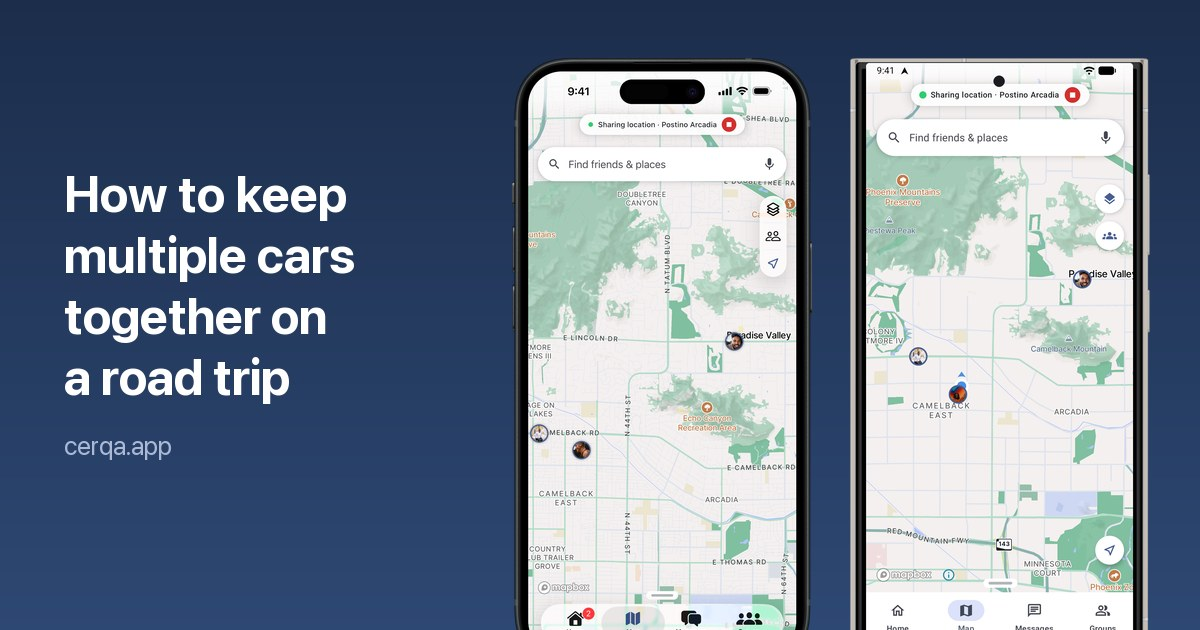
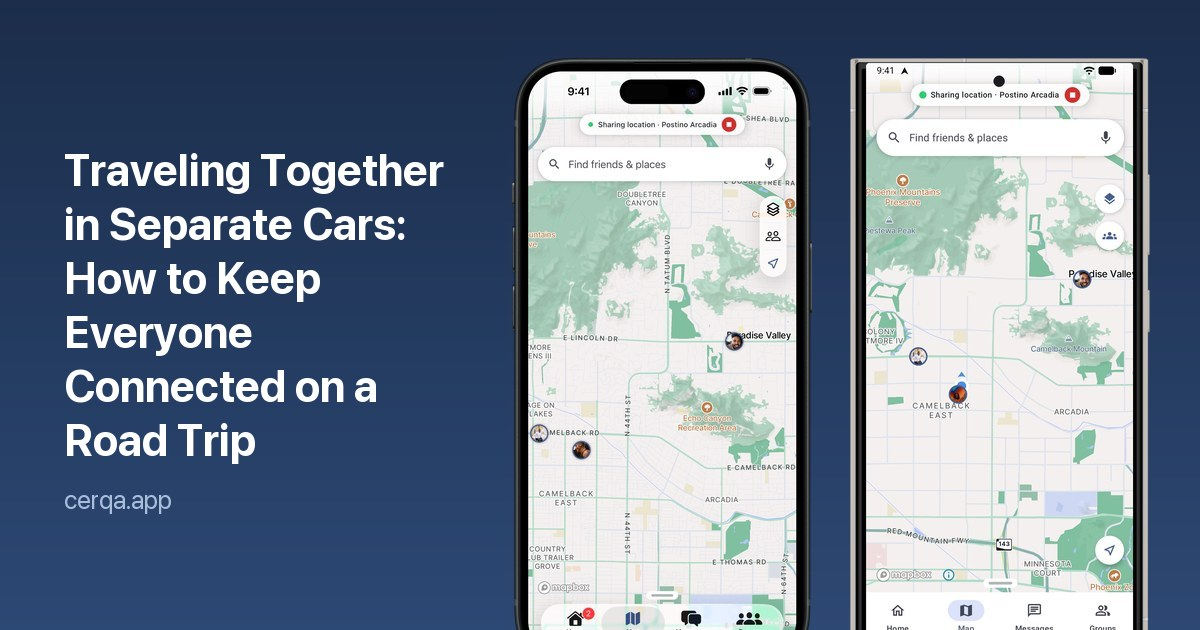
Blog: retitle road trip post "Traveling Together in Separate Cars" (EN/ES), new hero title; URL unchanged

Changed region(s): [[0.0308, 0.2413, 0.37, 0.7238], [0.0617, 0.7841, 0.1542, 0.8143]]

diff --git a/es/blog/como-mantener-varios-carros-juntos-en-un-viaje-por-carretera/index.html b/es/blog/como-mantener-varios-carros-juntos-en-un-viaje-por-carretera/index.html
@@ -3,7 +3,7 @@
 <head>
   <meta charset="UTF-8">
   <meta name="viewport" content="width=device-width, initial-scale=1.0">
-  <title>Cómo mantener varios carros juntos en un viaje por carretera | Cerqa</title>
+  <title>Viajar juntos en carros separados: cómo mantener a todos conectados en un viaje por carretera | Cerqa</title>
   <meta name="description" content="¿Viajan en dos o tres carros? Así se mantienen juntos sin mandar mensajes mientras manejan: compartan su ubicación en vivo, vean a qué hora llega cada carro, planeen sus paradas y vuelvan a encontrarse si se separan.">
   <link rel="canonical" href="https://cerqa.app/es/blog/como-mantener-varios-carros-juntos-en-un-viaje-por-carretera/">
   <link rel="alternate" hreflang="en" href="https://cerqa.app/blog/keep-multiple-cars-together-on-a-road-trip/">
@@ -16,17 +16,17 @@
   <meta property="og:type" content="article">
   <meta property="og:site_name" content="Cerqa">
   <meta property="og:url" content="https://cerqa.app/es/blog/como-mantener-varios-carros-juntos-en-un-viaje-por-carretera/">
-  <meta property="og:title" content="Cómo mantener varios carros juntos en un viaje por carretera | Cerqa">
+  <meta property="og:title" content="Viajar juntos en carros separados: cómo mantener a todos conectados en un viaje por carretera | Cerqa">
   <meta property="og:description" content="¿Viajan en dos o tres carros? Así se mantienen juntos sin mandar mensajes mientras manejan: compartan su ubicación en vivo, vean a qué hora llega cada carro, planeen sus paradas y vuelvan a encontrarse si se separan.">
   <meta property="og:image" content="https://cerqa.app/images/blog/keep-multiple-cars-together.jpg">
   <meta property="og:locale" content="es_MX">
   <meta property="og:locale:alternate" content="en_US">
   <meta name="twitter:card" content="summary_large_image">
   <script type="application/ld+json">
-  {"@context": "https://schema.org", "@type": "BlogPosting", "headline": "Cómo mantener varios carros juntos en un viaje por carretera", "description": "¿Viajan en dos o tres carros? Así se mantienen juntos sin mandar mensajes mientras manejan: compartan su ubicación en vivo, vean a qué hora llega cada carro, planeen sus paradas y vuelvan a encontrarse si se separan.", "image": "https://cerqa.app/images/blog/keep-multiple-cars-together.jpg", "datePublished": "2026-11-09", "dateModified": "2026-11-09", "inLanguage": "es", "mainEntityOfPage": "https://cerqa.app/es/blog/como-mantener-varios-carros-juntos-en-un-viaje-por-carretera/", "author": {"@type": "Organization", "name": "Cerqa", "url": "https://cerqa.app/"}, "publisher": {"@type": "Organization", "name": "Cerqa", "url": "https://cerqa.app/", "logo": {"@type": "ImageObject", "url": "https://cerqa.app/images/icon/apple-touch-icon.png"}}}
+  {"@context": "https://schema.org", "@type": "BlogPosting", "headline": "Viajar juntos en carros separados: cómo mantener a todos conectados en un viaje por carretera", "description": "¿Viajan en dos o tres carros? Así se mantienen juntos sin mandar mensajes mientras manejan: compartan su ubicación en vivo, vean a qué hora llega cada carro, planeen sus paradas y vuelvan a encontrarse si se separan.", "image": "https://cerqa.app/images/blog/keep-multiple-cars-together.jpg", "datePublished": "2026-11-09", "dateModified": "2026-11-09", "inLanguage": "es", "mainEntityOfPage": "https://cerqa.app/es/blog/como-mantener-varios-carros-juntos-en-un-viaje-por-carretera/", "author": {"@type": "Organization", "name": "Cerqa", "url": "https://cerqa.app/"}, "publisher": {"@type": "Organization", "name": "Cerqa", "url": "https://cerqa.app/", "logo": {"@type": "ImageObject", "url": "https://cerqa.app/images/icon/apple-touch-icon.png"}}}
   </script>
   <script type="application/ld+json">
-  {"@context": "https://schema.org", "@type": "BreadcrumbList", "itemListElement": [{"@type": "ListItem", "position": 1, "name": "Inicio", "item": "https://cerqa.app/es/"}, {"@type": "ListItem", "position": 2, "name": "Blog", "item": "https://cerqa.app/es/blog/"}, {"@type": "ListItem", "position": 3, "name": "Cómo mantener varios carros juntos en un viaje por carretera", "item": "https://cerqa.app/es/blog/como-mantener-varios-carros-juntos-en-un-viaje-por-carretera/"}]}
+  {"@context": "https://schema.org", "@type": "BreadcrumbList", "itemListElement": [{"@type": "ListItem", "position": 1, "name": "Inicio", "item": "https://cerqa.app/es/"}, {"@type": "ListItem", "position": 2, "name": "Blog", "item": "https://cerqa.app/es/blog/"}, {"@type": "ListItem", "position": 3, "name": "Viajar juntos en carros separados: cómo mantener a todos conectados en un viaje por carretera", "item": "https://cerqa.app/es/blog/como-mantener-varios-carros-juntos-en-un-viaje-por-carretera/"}]}
   </script>
   <script type="application/ld+json">
   {"@context": "https://schema.org", "@type": "FAQPage", "mainEntity": [{"@type": "Question", "name": "¿Cuál es la mejor forma de mantener varios carros juntos en un viaje por carretera?", "acceptedAnswer": {"@type": "Answer", "text": "Pónganse de acuerdo en el destino y las paradas antes de salir, que un copiloto en cada carro use el teléfono, y compartan su ubicación en vivo con todo el grupo para que cada carro vea a los demás y su hora de llegada."}}, {"@type": "Question", "name": "¿Amigos con iPhone y Android pueden verse?", "acceptedAnswer": {"@type": "Answer", "text": "Sí. Cerqa funciona en iPhone y en Android, así que todos aparecen en el mismo mapa."}}, {"@type": "Question", "name": "¿Es gratis?", "acceptedAnswer": {"@type": "Answer", "text": "Sí. Los grupos de hasta 5 personas pueden compartir gratis hasta una hora a la vez. Pro agrega compartir hasta 24 horas, grupos de hasta 25 personas y navegación en grupo."}}, {"@type": "Question", "name": "¿Qué hacemos si nos separamos?", "acceptedAnswer": {"@type": "Answer", "text": "No intenten alcanzarse en el tráfico. Vean dónde va el otro carro, sigan manejando con cuidado y reagrúpense en la siguiente parada que acordaron."}}]}
@@ -91,7 +91,7 @@
 
   <article class="post">
     <p class="crumbs"><a href="/es/">Inicio</a> › <a href="/es/blog/">Blog</a></p>
-    <h1>Cómo mantener varios carros juntos en un viaje por carretera</h1>
+    <h1>Viajar juntos en carros separados: cómo mantener a todos conectados en un viaje por carretera</h1>
     <p class="post-meta"><time datetime="2026-11-09">9 de noviembre de 2026</time> · 3 min de lectura · <a href="/blog/keep-multiple-cars-together-on-a-road-trip/" hreflang="en" lang="en" aria-label="Read in English" title="Read in English">EN</a></p>
     <img class="post-hero" src="/images/blog/keep-multiple-cars-together.jpg" width="1200" height="630" alt="Cerqa en iPhone y Android: amigos en distintos carros en un solo mapa, compartiendo su ubicación camino al mismo lugar">
     <div class="post-body">

diff --git a/blog/keep-multiple-cars-together-on-a-road-trip/index.html b/blog/keep-multiple-cars-together-on-a-road-trip/index.html
@@ -3,7 +3,7 @@
 <head>
   <meta charset="UTF-8">
   <meta name="viewport" content="width=device-width, initial-scale=1.0">
-  <title>How to keep multiple cars together on a road trip | Cerqa</title>
+  <title>Traveling Together in Separate Cars: How to Keep Everyone Connected on a Road Trip | Cerqa</title>
   <meta name="description" content="Traveling in two or three cars? Here is how to stay together without texting while you drive: share live locations, see everyone&#x27;s arrival time, plan your stops and find each other again after a split.">
   <link rel="canonical" href="https://cerqa.app/blog/keep-multiple-cars-together-on-a-road-trip/">
   <link rel="alternate" hreflang="en" href="https://cerqa.app/blog/keep-multiple-cars-together-on-a-road-trip/">
@@ -16,17 +16,17 @@
   <meta property="og:type" content="article">
   <meta property="og:site_name" content="Cerqa">
   <meta property="og:url" content="https://cerqa.app/blog/keep-multiple-cars-together-on-a-road-trip/">
-  <meta property="og:title" content="How to keep multiple cars together on a road trip | Cerqa">
+  <meta property="og:title" content="Traveling Together in Separate Cars: How to Keep Everyone Connected on a Road Trip | Cerqa">
   <meta property="og:description" content="Traveling in two or three cars? Here is how to stay together without texting while you drive: share live locations, see everyone&#x27;s arrival time, plan your stops and find each other again after a split.">
   <meta property="og:image" content="https://cerqa.app/images/blog/keep-multiple-cars-together.jpg">
   <meta property="og:locale" content="en_US">
   <meta property="og:locale:alternate" content="es_MX">
   <meta name="twitter:card" content="summary_large_image">
   <script type="application/ld+json">
-  {"@context": "https://schema.org", "@type": "BlogPosting", "headline": "How to keep multiple cars together on a road trip", "description": "Traveling in two or three cars? Here is how to stay together without texting while you drive: share live locations, see everyone's arrival time, plan your stops and find each other again after a split.", "image": "https://cerqa.app/images/blog/keep-multiple-cars-together.jpg", "datePublished": "2026-11-09", "dateModified": "2026-11-09", "inLanguage": "en", "mainEntityOfPage": "https://cerqa.app/blog/keep-multiple-cars-together-on-a-road-trip/", "author": {"@type": "Organization", "name": "Cerqa", "url": "https://cerqa.app/"}, "publisher": {"@type": "Organization", "name": "Cerqa", "url": "https://cerqa.app/", "logo": {"@type": "ImageObject", "url": "https://cerqa.app/images/icon/apple-touch-icon.png"}}}
+  {"@context": "https://schema.org", "@type": "BlogPosting", "headline": "Traveling Together in Separate Cars: How to Keep Everyone Connected on a Road Trip", "description": "Traveling in two or three cars? Here is how to stay together without texting while you drive: share live locations, see everyone's arrival time, plan your stops and find each other again after a split.", "image": "https://cerqa.app/images/blog/keep-multiple-cars-together.jpg", "datePublished": "2026-11-09", "dateModified": "2026-11-09", "inLanguage": "en", "mainEntityOfPage": "https://cerqa.app/blog/keep-multiple-cars-together-on-a-road-trip/", "author": {"@type": "Organization", "name": "Cerqa", "url": "https://cerqa.app/"}, "publisher": {"@type": "Organization", "name": "Cerqa", "url": "https://cerqa.app/", "logo": {"@type": "ImageObject", "url": "https://cerqa.app/images/icon/apple-touch-icon.png"}}}
   </script>
   <script type="application/ld+json">
-  {"@context": "https://schema.org", "@type": "BreadcrumbList", "itemListElement": [{"@type": "ListItem", "position": 1, "name": "Home", "item": "https://cerqa.app/"}, {"@type": "ListItem", "position": 2, "name": "Blog", "item": "https://cerqa.app/blog/"}, {"@type": "ListItem", "position": 3, "name": "How to keep multiple cars together on a road trip", "item": "https://cerqa.app/blog/keep-multiple-cars-together-on-a-road-trip/"}]}
+  {"@context": "https://schema.org", "@type": "BreadcrumbList", "itemListElement": [{"@type": "ListItem", "position": 1, "name": "Home", "item": "https://cerqa.app/"}, {"@type": "ListItem", "position": 2, "name": "Blog", "item": "https://cerqa.app/blog/"}, {"@type": "ListItem", "position": 3, "name": "Traveling Together in Separate Cars: How to Keep Everyone Connected on a Road Trip", "item": "https://cerqa.app/blog/keep-multiple-cars-together-on-a-road-trip/"}]}
   </script>
   <script type="application/ld+json">
   {"@context": "https://schema.org", "@type": "FAQPage", "mainEntity": [{"@type": "Question", "name": "What is the best way to keep multiple cars together on a road trip?", "acceptedAnswer": {"@type": "Answer", "text": "Agree on the destination and stops before you leave, have a passenger in each car handle the phone, and share live locations with the whole group so every car can see the others and their arrival times."}}, {"@type": "Question", "name": "Can friends with iPhone and Android see each other?", "acceptedAnswer": {"@type": "Answer", "text": "Yes. Cerqa works on iPhone and Android phones, so everyone shows up on the same map."}}, {"@type": "Question", "name": "Is it free?", "acceptedAnswer": {"@type": "Answer", "text": "Yes. Groups of up to 5 people can share for up to an hour at a time for free. Pro adds sharing for up to 24 hours, groups of up to 25 and group navigation."}}, {"@type": "Question", "name": "What should we do if we get separated?", "acceptedAnswer": {"@type": "Answer", "text": "Don't try to catch up in traffic. Check where the other car is, keep driving safely and regroup at the next stop you agreed on."}}]}
@@ -91,7 +91,7 @@
 
   <article class="post">
     <p class="crumbs"><a href="/">Home</a> › <a href="/blog/">Blog</a></p>
-    <h1>How to keep multiple cars together on a road trip</h1>
+    <h1>Traveling Together in Separate Cars: How to Keep Everyone Connected on a Road Trip</h1>
     <p class="post-meta"><time datetime="2026-11-09">November 9, 2026</time> · 3 min read · <a href="/es/blog/como-mantener-varios-carros-juntos-en-un-viaje-por-carretera/" hreflang="es" lang="es" aria-label="Leer en español" title="Leer en español">ES</a></p>
     <img class="post-hero" src="/images/blog/keep-multiple-cars-together.jpg" width="1200" height="630" alt="Cerqa on iPhone and Android: friends in different cars on one map, sharing their location on the way to the same place">
     <div class="post-body">

diff --git a/es/blog/index.html b/es/blog/index.html
@@ -23,7 +23,7 @@
   <meta property="og:locale:alternate" content="en_US">
   <meta name="twitter:card" content="summary_large_image">
   <script type="application/ld+json">
-  {"@context": "https://schema.org", "@type": "Blog", "name": "Blog de Cerqa", "url": "https://cerqa.app/es/blog/", "inLanguage": "es", "publisher": {"@type": "Organization", "name": "Cerqa", "url": "https://cerqa.app/"}, "blogPost": [{"@type": "BlogPosting", "headline": "Cómo mantener varios carros juntos en un viaje por carretera", "url": "https://cerqa.app/es/blog/como-mantener-varios-carros-juntos-en-un-viaje-por-carretera/", "datePublished": "2026-11-09"}, {"@type": "BlogPosting", "headline": "Cómo compartir tu ubicación entre iPhone y Android", "url": "https://cerqa.app/es/blog/compartir-ubicacion-entre-iphone-y-android/", "datePublished": "2026-11-01"}]}
+  {"@context": "https://schema.org", "@type": "Blog", "name": "Blog de Cerqa", "url": "https://cerqa.app/es/blog/", "inLanguage": "es", "publisher": {"@type": "Organization", "name": "Cerqa", "url": "https://cerqa.app/"}, "blogPost": [{"@type": "BlogPosting", "headline": "Viajar juntos en carros separados: cómo mantener a todos conectados en un viaje por carretera", "url": "https://cerqa.app/es/blog/como-mantener-varios-carros-juntos-en-un-viaje-por-carretera/", "datePublished": "2026-11-09"}, {"@type": "BlogPosting", "headline": "Cómo compartir tu ubicación entre iPhone y Android", "url": "https://cerqa.app/es/blog/compartir-ubicacion-entre-iphone-y-android/", "datePublished": "2026-11-01"}]}
   </script>
   <link rel="preconnect" href="https://fonts.googleapis.com">
   <link rel="preconnect" href="https://fonts.gstatic.com" crossorigin>
@@ -94,7 +94,7 @@
         <img src="/images/blog/keep-multiple-cars-together.jpg" width="1200" height="630" loading="lazy" alt="Cerqa en iPhone y Android: amigos en distintos carros en un solo mapa, compartiendo su ubicación camino al mismo lugar">
         <div class="post-card-text">
           <time datetime="2026-11-09">9 de noviembre de 2026</time>
-          <h2>Cómo mantener varios carros juntos en un viaje por carretera</h2>
+          <h2>Viajar juntos en carros separados: cómo mantener a todos conectados en un viaje por carretera</h2>
           <p>¿Viajan en dos o tres carros? Así se mantienen juntos sin mandar mensajes mientras manejan: compartan su ubicación en vivo, vean a qué hora llega cada carro, planeen sus paradas y vuelvan a encontrarse si se separan.</p>
           <span class="go">Leer →</span>
         </div>

diff --git a/blog/index.html b/blog/index.html
@@ -23,7 +23,7 @@
   <meta property="og:locale:alternate" content="es_MX">
   <meta name="twitter:card" content="summary_large_image">
   <script type="application/ld+json">
-  {"@context": "https://schema.org", "@type": "Blog", "name": "Cerqa Blog", "url": "https://cerqa.app/blog/", "inLanguage": "en", "publisher": {"@type": "Organization", "name": "Cerqa", "url": "https://cerqa.app/"}, "blogPost": [{"@type": "BlogPosting", "headline": "How to keep multiple cars together on a road trip", "url": "https://cerqa.app/blog/keep-multiple-cars-together-on-a-road-trip/", "datePublished": "2026-11-09"}, {"@type": "BlogPosting", "headline": "How to share your location between iPhone and Android", "url": "https://cerqa.app/blog/share-location-between-iphone-and-android/", "datePublished": "2026-11-01"}]}
+  {"@context": "https://schema.org", "@type": "Blog", "name": "Cerqa Blog", "url": "https://cerqa.app/blog/", "inLanguage": "en", "publisher": {"@type": "Organization", "name": "Cerqa", "url": "https://cerqa.app/"}, "blogPost": [{"@type": "BlogPosting", "headline": "Traveling Together in Separate Cars: How to Keep Everyone Connected on a Road Trip", "url": "https://cerqa.app/blog/keep-multiple-cars-together-on-a-road-trip/", "datePublished": "2026-11-09"}, {"@type": "BlogPosting", "headline": "How to share your location between iPhone and Android", "url": "https://cerqa.app/blog/share-location-between-iphone-and-android/", "datePublished": "2026-11-01"}]}
   </script>
   <link rel="preconnect" href="https://fonts.googleapis.com">
   <link rel="preconnect" href="https://fonts.gstatic.com" crossorigin>
@@ -94,7 +94,7 @@
         <img src="/images/blog/keep-multiple-cars-together.jpg" width="1200" height="630" loading="lazy" alt="Cerqa on iPhone and Android: friends in different cars on one map, sharing their location on the way to the same place">
         <div class="post-card-text">
           <time datetime="2026-11-09">November 9, 2026</time>
-          <h2>How to keep multiple cars together on a road trip</h2>
+          <h2>Traveling Together in Separate Cars: How to Keep Everyone Connected on a Road Trip</h2>
           <p>Traveling in two or three cars? Here is how to stay together without texting while you drive: share live locations, see everyone's arrival time, plan your stops and find each other again after a split.</p>
           <span class="go">Read →</span>
         </div>

diff --git a/es/blog/compartir-ubicacion-entre-iphone-y-android/index.html b/es/blog/compartir-ubicacion-entre-iphone-y-android/index.html
@@ -146,7 +146,7 @@
         <img src="/images/blog/keep-multiple-cars-together.jpg" width="1200" height="630" loading="lazy" alt="Cerqa en iPhone y Android: amigos en distintos carros en un solo mapa, compartiendo su ubicación camino al mismo lugar">
         <div class="post-card-text">
           <time datetime="2026-11-09">9 de noviembre de 2026</time>
-          <h2>Cómo mantener varios carros juntos en un viaje por carretera</h2>
+          <h2>Viajar juntos en carros separados: cómo mantener a todos conectados en un viaje por carretera</h2>
           <p>¿Viajan en dos o tres carros? Así se mantienen juntos sin mandar mensajes mientras manejan: compartan su ubicación en vivo, vean a qué hora llega cada carro, planeen sus paradas y vuelvan a encontrarse si se separan.</p>
           <span class="go">Leer →</span>
         </div>

diff --git a/blog/share-location-between-iphone-and-android/index.html b/blog/share-location-between-iphone-and-android/index.html
@@ -146,7 +146,7 @@
         <img src="/images/blog/keep-multiple-cars-together.jpg" width="1200" height="630" loading="lazy" alt="Cerqa on iPhone and Android: friends in different cars on one map, sharing their location on the way to the same place">
         <div class="post-card-text">
           <time datetime="2026-11-09">November 9, 2026</time>
-          <h2>How to keep multiple cars together on a road trip</h2>
+          <h2>Traveling Together in Separate Cars: How to Keep Everyone Connected on a Road Trip</h2>
           <p>Traveling in two or three cars? Here is how to stay together without texting while you drive: share live locations, see everyone's arrival time, plan your stops and find each other again after a split.</p>
           <span class="go">Read →</span>
         </div>

diff --git a/scripts/blog/2026-11-09-keep-multiple-cars-together.py b/scripts/blog/2026-11-09-keep-multiple-cars-together.py
@@ -8,8 +8,8 @@ POST = {
     "image": "/images/blog/keep-multiple-cars-together.jpg",
     "en": {
         "slug": "keep-multiple-cars-together-on-a-road-trip",
-        "title": "How to keep multiple cars together on a road trip | Cerqa",
-        "h1": "How to keep multiple cars together on a road trip",
+        "title": "Traveling Together in Separate Cars: How to Keep Everyone Connected on a Road Trip | Cerqa",
+        "h1": "Traveling Together in Separate Cars: How to Keep Everyone Connected on a Road Trip",
         "desc": "Traveling in two or three cars? Here is how to stay together without texting while you drive: share live locations, see everyone's arrival time, plan your stops and find each other again after a split.",
         "image_alt": "Cerqa on iPhone and Android: friends in different cars on one map, sharing their location on the way to the same place",
         "body": """      <p>Imagine your family is heading to the beach in San Diego. Two cars leave Los Angeles together, one following the other, while a third car starts its trip from Orange County.</p>
@@ -58,8 +58,8 @@ POST = {
     },
     "es": {
         "slug": "como-mantener-varios-carros-juntos-en-un-viaje-por-carretera",
-        "title": "Cómo mantener varios carros juntos en un viaje por carretera | Cerqa",
-        "h1": "Cómo mantener varios carros juntos en un viaje por carretera",
+        "title": "Viajar juntos en carros separados: cómo mantener a todos conectados en un viaje por carretera | Cerqa",
+        "h1": "Viajar juntos en carros separados: cómo mantener a todos conectados en un viaje por carretera",
         "desc": "¿Viajan en dos o tres carros? Así se mantienen juntos sin mandar mensajes mientras manejan: compartan su ubicación en vivo, vean a qué hora llega cada carro, planeen sus paradas y vuelvan a encontrarse si se separan.",
         "image_alt": "Cerqa en iPhone y Android: amigos en distintos carros en un solo mapa, compartiendo su ubicación camino al mismo lugar",
         "body": """      <p>Imagina que tu familia va a la playa en San Diego. Dos carros salen juntos de Los Ángeles, uno siguiendo al otro, mientras un tercero empieza su viaje desde Orange County.</p>
